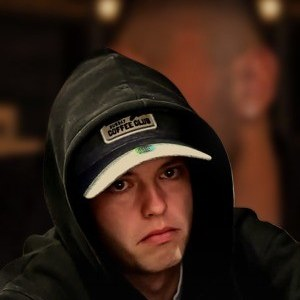
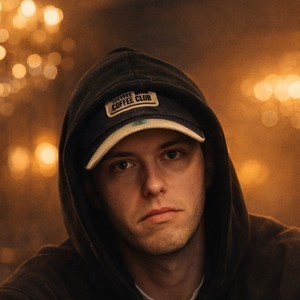
Kevin, Jonny, Philipp: neue v2-Karten als Hauptkarten, neue Avatare
Claude-Session: https://claude.ai/code/session_01AgPGxrhmogBa7YXoy85Ab2

diff --git a/tafel/index.html b/tafel/index.html
@@ -824,13 +824,13 @@ function drawOverview(a){
 
 /* ---------- player cards: one by one after the seat draw ---------- */
 const CA=(a,b)=>b?{img:"karten/"+a,fg:"karten/"+b}:"karten/"+a;
-const C_NIK=[{img:"karten/v2/niklas.jpg",ar:"2/3"},CA("niklas.jpg"),{img:"karten/niklas-foto-kevin.jpg",ar:"3/4"}],C_MAGG=[{img:"karten/v2/magg.jpg?v=2",ar:"2/3"},CA("magg.jpg")],C_OLI=[{img:"karten/v2/oli.jpg",ar:"2/3"}],C_PHIL=CA("philipp.jpg","philipp-fg.png"),C_JON=CA("jonny.jpg","jonny-fg.png");
+const C_NIK=[{img:"karten/v2/niklas.jpg",ar:"2/3"},CA("niklas.jpg"),{img:"karten/niklas-foto-kevin.jpg",ar:"3/4"}],C_MAGG=[{img:"karten/v2/magg.jpg?v=2",ar:"2/3"},CA("magg.jpg")],C_OLI=[{img:"karten/v2/oli.jpg",ar:"2/3"}],C_PHIL=[{img:"karten/v2/philipp.jpg",ar:"2/3"}],C_JON=[{img:"karten/v2/jonny.jpg",ar:"2/3"}];
 /* a list = several pictures; the board always shows the first (main) card, the others live in the profile gallery */
-const CARDS={"tim":[{img:"karten/v2/tim.jpg",ar:"2/3"},CA("tim.jpg"),CA("tim-2.jpg")],"niklas":C_NIK,"niki":C_NIK,"nico":[{img:"karten/v2/nico.jpg",ar:"2/3"},CA("nico.jpg")],"manu":[{img:"karten/manu-v2.jpg",ar:"2/3"},CA("manu-2.jpg")],"domi m":C_MAGG,"magg":C_MAGG,"domi c":[{img:"karten/v2/domi-c.jpg",ar:"2/3"}],"oli":C_OLI,"olli":C_OLI,"philipp":C_PHIL,"phillip":C_PHIL,"phil":C_PHIL,"jonny":C_JON,"jonas":C_JON,"johnny":C_JON,"benno":[{img:"karten/v2/benno.jpg",ar:"2/3"},CA("benno.jpg")],"chris":[{img:"karten/v2/chris.jpg?v=2",ar:"2/3"}],"jan":[{img:"karten/v2/jan.jpg",ar:"2/3"}],"kevin":[CA("kevin.jpg","kevin-fg.png")]};
+const CARDS={"tim":[{img:"karten/v2/tim.jpg",ar:"2/3"},CA("tim.jpg"),CA("tim-2.jpg")],"niklas":C_NIK,"niki":C_NIK,"nico":[{img:"karten/v2/nico.jpg",ar:"2/3"},CA("nico.jpg")],"manu":[{img:"karten/manu-v2.jpg",ar:"2/3"},CA("manu-2.jpg")],"domi m":C_MAGG,"magg":C_MAGG,"domi c":[{img:"karten/v2/domi-c.jpg",ar:"2/3"}],"oli":C_OLI,"olli":C_OLI,"philipp":C_PHIL,"phillip":C_PHIL,"phil":C_PHIL,"jonny":C_JON,"jonas":C_JON,"johnny":C_JON,"benno":[{img:"karten/v2/benno.jpg",ar:"2/3"},CA("benno.jpg")],"chris":[{img:"karten/v2/chris.jpg?v=2",ar:"2/3"}],"jan":[{img:"karten/v2/jan.jpg",ar:"2/3"}],"kevin":[{img:"karten/v2/kevin.jpg",ar:"2/3"}]};
 /* video that plays with sound when this player's card comes up in the seat draw */
 const VIDS={"nico":"karten/nico.mp4?v=1"};
 const AV={"tim":"tim","niklas":"niklas","niki":"niklas","nico":"nico","manu":"manu","domi m":"magg","magg":"magg","domi c":"domi-c","oli":"oli","olli":"oli","philipp":"philipp","phillip":"philipp","phil":"philipp","jonny":"jonny","jonas":"jonny","johnny":"jonny","benno":"benno","chris":"chris","kevin":"kevin","jan":"jan"};
-function avOf(n){const k=n.toLowerCase(),o=S.avatars&&S.avatars[k];if(o)return o;if(AV[k])return "karten/av/"+AV[k]+".jpg?v=11";const c=cardOf(n);return null;}
+function avOf(n){const k=n.toLowerCase(),o=S.avatars&&S.avatars[k];if(o)return o;if(AV[k])return "karten/av/"+AV[k]+".jpg?v=12";const c=cardOf(n);return null;}
 function avHtml(n,cls){const u=avOf(n);return '<span class="'+(cls||"av")+(u?"":" none")+'">'+(u?'<img src="'+u+'" alt="">':esc((n||"?").trim().charAt(0).toUpperCase()))+'</span>';}
 Object.values(AV).forEach(x=>{const i=new Image();i.src="karten/av/"+x+".jpg";});
 const cardOf=n=>{const c=(S.cards&&S.cards[n.toLowerCase()])||CARDS[n.toLowerCase()]||null;return Array.isArray(c)?c[0]:c;};

diff --git a/spieler/index.html b/spieler/index.html
@@ -91,11 +91,11 @@ td.n,th.n{text-align:right}
 <div class="prof" id="prof" hidden></div>
 <div class="ov" id="ov" hidden><button class="x" id="x" aria-label="Schließen">✕</button><button class="nav l" id="pl" aria-label="Zurück">‹</button><div id="bigw"></div><button class="nav r" id="nr" aria-label="Weiter">›</button></div>
 <script>
-const K="../tafel/karten/",V="?v=11";
+const K="../tafel/karten/",V="?v=12";
 const P=[
  {n:"Tim",img:"v2/tim.jpg",ar:1,alt:[{img:"tim.jpg"},{img:"tim-2.jpg"}]},{n:"Niklas",img:"v2/niklas.jpg",ar:1,alt:[{img:"niklas.jpg"},{img:"niklas-foto-kevin.jpg",ar:1}]},{n:"Nico",img:"v2/nico.jpg",ar:1,alt:[{img:"nico.jpg"}]},{n:"Manu",img:"manu-v2.jpg",ar:1,alt:[{img:"manu-2.jpg"}]},
- {n:"Magg",img:"v2/magg.jpg",ar:1,alt:[{img:"magg.jpg"}]},{n:"Oli",img:"v2/oli.jpg",ar:1},{n:"Domi C",img:"v2/domi-c.jpg",ar:1},{n:"Philipp",img:"philipp.jpg",fg:"philipp-fg.png"},
- {n:"Jonny",img:"jonny.jpg",fg:"jonny-fg.png"},{n:"Benno",img:"v2/benno.jpg",ar:1,alt:[{img:"benno.jpg"}]},{n:"Chris",img:"v2/chris.jpg",ar:1},{n:"Jan",img:"v2/jan.jpg",ar:1},{n:"Kevin",img:"kevin.jpg",fg:"kevin-fg.png"}
+ {n:"Magg",img:"v2/magg.jpg",ar:1,alt:[{img:"magg.jpg"}]},{n:"Oli",img:"v2/oli.jpg",ar:1},{n:"Domi C",img:"v2/domi-c.jpg",ar:1},{n:"Philipp",img:"v2/philipp.jpg",ar:1},
+ {n:"Jonny",img:"v2/jonny.jpg",ar:1},{n:"Benno",img:"v2/benno.jpg",ar:1,alt:[{img:"benno.jpg"}]},{n:"Chris",img:"v2/chris.jpg",ar:1},{n:"Jan",img:"v2/jan.jpg",ar:1},{n:"Kevin",img:"v2/kevin.jpg",ar:1}
 ];
 const R=(a,b)=>(a+Math.random()*(b-a));
 /* several pictures per player: main card in the grid, all of them as a gallery on the profile */
